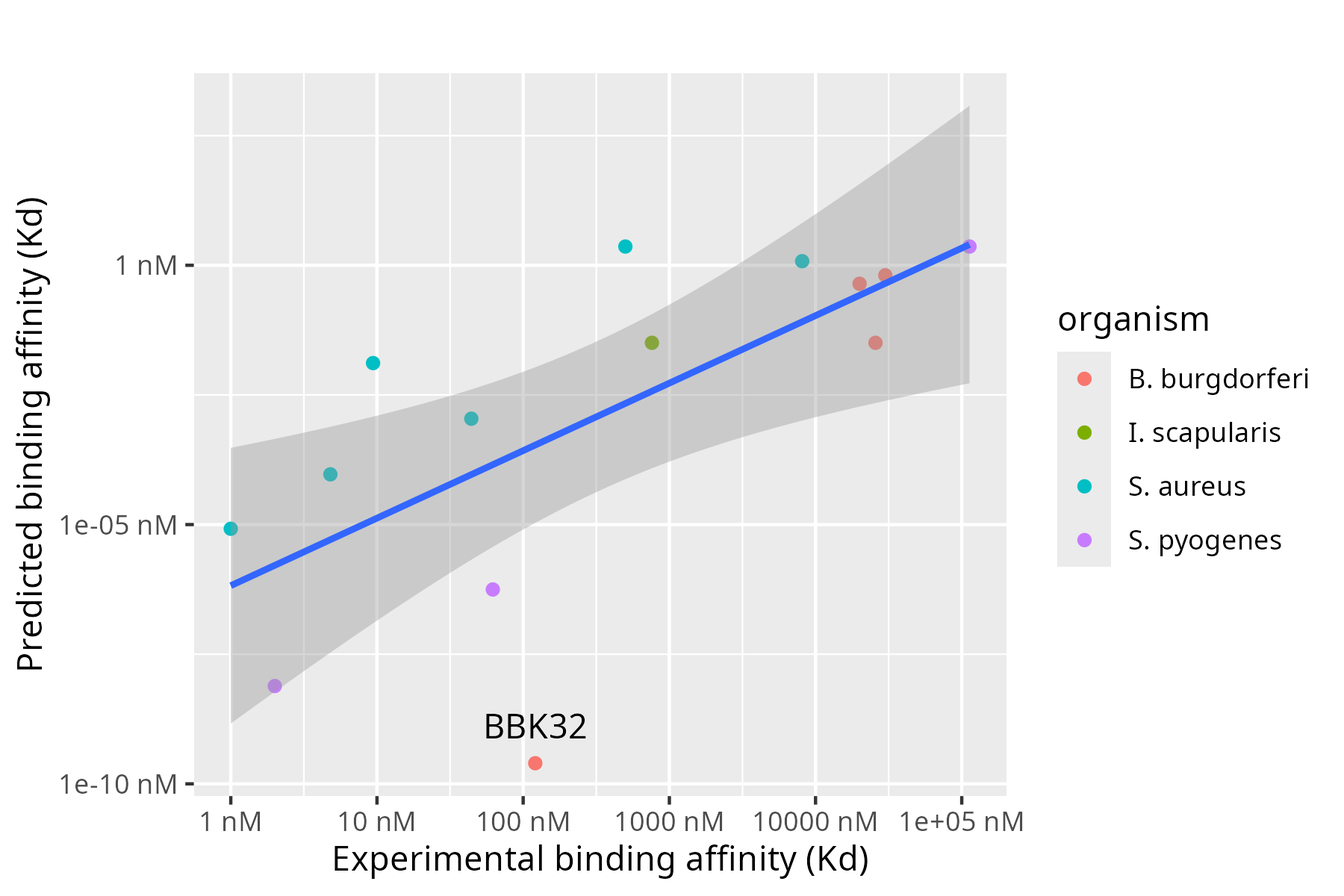
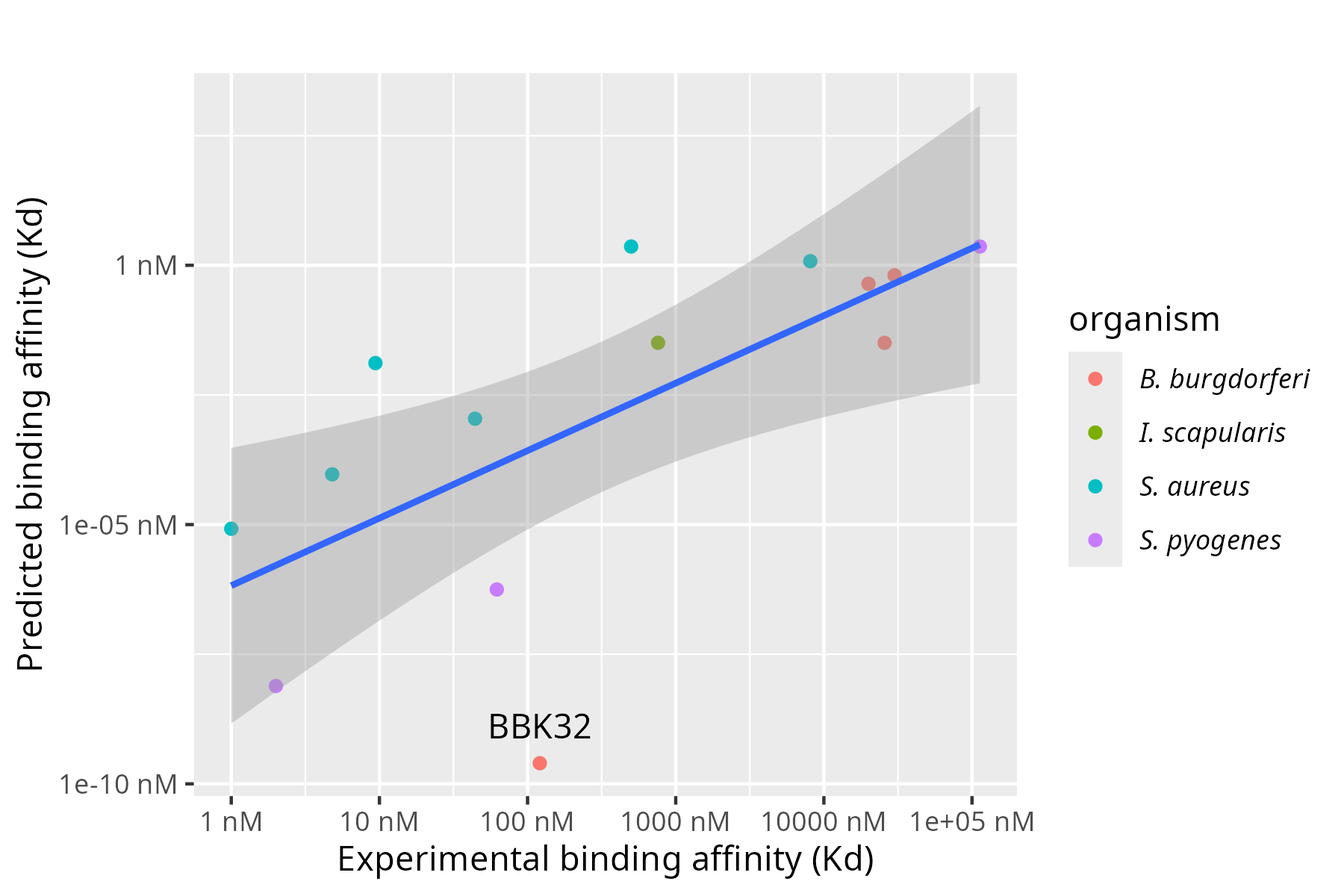
Force update docs on 2025-11-19 17:43:00

diff --git a/docs/data/generate_graph.html b/docs/data/generate_graph.html
@@ -7,7 +7,7 @@
 <meta name="viewport" content="width=device-width, initial-scale=1.0, user-scalable=yes">
 
 
-<title>Research – RJBingham</title>
+<title>graph – RJBingham</title>
 <style>
 code{white-space: pre-wrap;}
 span.smallcaps{font-variant: small-caps;}
@@ -20,26 +20,61 @@ ul.task-list li input[type="checkbox"] {
   margin: 0 0.8em 0.2em -1em; /* quarto-specific, see https://github.com/quarto-dev/quarto-cli/issues/4556 */ 
   vertical-align: middle;
 }
+/* CSS for syntax highlighting */
+html { -webkit-text-size-adjust: 100%; }
+pre > code.sourceCode { white-space: pre; position: relative; }
+pre > code.sourceCode > span { display: inline-block; line-height: 1.25; }
+pre > code.sourceCode > span:empty { height: 1.2em; }
+.sourceCode { overflow: visible; }
+code.sourceCode > span { color: inherit; text-decoration: inherit; }
+div.sourceCode { margin: 1em 0; }
+pre.sourceCode { margin: 0; }
+@media screen {
+div.sourceCode { overflow: auto; }
+}
+@media print {
+pre > code.sourceCode { white-space: pre-wrap; }
+pre > code.sourceCode > span { text-indent: -5em; padding-left: 5em; }
+}
+pre.numberSource code
+  { counter-reset: source-line 0; }
+pre.numberSource code > span
+  { position: relative; left: -4em; counter-increment: source-line; }
+pre.numberSource code > span > a:first-child::before
+  { content: counter(source-line);
+    position: relative; left: -1em; text-align: right; vertical-align: baseline;
+    border: none; display: inline-block;
+    -webkit-touch-callout: none; -webkit-user-select: none;
+    -khtml-user-select: none; -moz-user-select: none;
+    -ms-user-select: none; user-select: none;
+    padding: 0 4px; width: 4em;
+  }
+pre.numberSource { margin-left: 3em;  padding-left: 4px; }
+div.sourceCode
+  {   }
+@media screen {
+pre > code.sourceCode > span > a:first-child::before { text-decoration: underline; }
+}
 </style>
 
 
-<script src="site_libs/quarto-nav/quarto-nav.js"></script>
-<script src="site_libs/quarto-nav/headroom.min.js"></script>
-<script src="site_libs/clipboard/clipboard.min.js"></script>
-<script src="site_libs/quarto-search/autocomplete.umd.js"></script>
-<script src="site_libs/quarto-search/fuse.min.js"></script>
-<script src="site_libs/quarto-search/quarto-search.js"></script>
-<meta name="quarto:offset" content="./">
-<script src="site_libs/quarto-html/quarto.js" type="module"></script>
-<script src="site_libs/quarto-html/tabsets/tabsets.js" type="module"></script>
-<script src="site_libs/quarto-html/popper.min.js"></script>
-<script src="site_libs/quarto-html/tippy.umd.min.js"></script>
-<script src="site_libs/quarto-html/anchor.min.js"></script>
-<link href="site_libs/quarto-html/tippy.css" rel="stylesheet">
-<link href="site_libs/quarto-html/quarto-syntax-highlighting-37eea08aefeeee20ff55810ff984fec1.css" rel="stylesheet" id="quarto-text-highlighting-styles">
-<script src="site_libs/bootstrap/bootstrap.min.js"></script>
-<link href="site_libs/bootstrap/bootstrap-icons.css" rel="stylesheet">
-<link href="site_libs/bootstrap/bootstrap-7baaf987bdc31585216d969921a59bec.min.css" rel="stylesheet" append-hash="true" id="quarto-bootstrap" data-mode="light">
+<script src="../site_libs/quarto-nav/quarto-nav.js"></script>
+<script src="../site_libs/quarto-nav/headroom.min.js"></script>
+<script src="../site_libs/clipboard/clipboard.min.js"></script>
+<script src="../site_libs/quarto-search/autocomplete.umd.js"></script>
+<script src="../site_libs/quarto-search/fuse.min.js"></script>
+<script src="../site_libs/quarto-search/quarto-search.js"></script>
+<meta name="quarto:offset" content="../">
+<script src="../site_libs/quarto-html/quarto.js" type="module"></script>
+<script src="../site_libs/quarto-html/tabsets/tabsets.js" type="module"></script>
+<script src="../site_libs/quarto-html/popper.min.js"></script>
+<script src="../site_libs/quarto-html/tippy.umd.min.js"></script>
+<script src="../site_libs/quarto-html/anchor.min.js"></script>
+<link href="../site_libs/quarto-html/tippy.css" rel="stylesheet">
+<link href="../site_libs/quarto-html/quarto-syntax-highlighting-37eea08aefeeee20ff55810ff984fec1.css" rel="stylesheet" id="quarto-text-highlighting-styles">
+<script src="../site_libs/bootstrap/bootstrap.min.js"></script>
+<link href="../site_libs/bootstrap/bootstrap-icons.css" rel="stylesheet">
+<link href="../site_libs/bootstrap/bootstrap-7baaf987bdc31585216d969921a59bec.min.css" rel="stylesheet" append-hash="true" id="quarto-bootstrap" data-mode="light">
 <script id="quarto-search-options" type="application/json">{
   "location": "navbar",
   "copy-button": false,
@@ -69,7 +104,7 @@ ul.task-list li input[type="checkbox"] {
 }</script>
 
 
-<link rel="stylesheet" href="styles.css">
+<link rel="stylesheet" href="../styles.css">
 </head>
 
 <body class="nav-fixed quarto-light">
@@ -79,7 +114,7 @@ ul.task-list li input[type="checkbox"] {
     <nav class="navbar navbar-expand-lg " data-bs-theme="dark">
       <div class="navbar-container container-fluid">
       <div class="navbar-brand-container mx-auto">
-    <a class="navbar-brand" href="./index.html">
+    <a class="navbar-brand" href="../index.html">
     <span class="navbar-title">RJBingham</span>
     </a>
   </div>
@@ -90,16 +125,12 @@ ul.task-list li input[type="checkbox"] {
           <div class="collapse navbar-collapse" id="navbarCollapse">
             <ul class="navbar-nav navbar-nav-scroll me-auto">
   <li class="nav-item">
-    <a class="nav-link" href="./index.html"> 
+    <a class="nav-link" href="../index.html"> 
 <span class="menu-text">Home</span></a>
   </li>  
   <li class="nav-item">
-    <a class="nav-link active" href="./research.html" aria-current="page"> 
+    <a class="nav-link" href="../research.html"> 
 <span class="menu-text">Research</span></a>
-  </li>  
-  <li class="nav-item">
-    <a class="nav-link" href="./teaching.html"> 
-<span class="menu-text">Teaching</span></a>
   </li>  
 </ul>
           </div> <!-- /navcollapse -->
@@ -117,8 +148,8 @@ ul.task-list li input[type="checkbox"] {
     <h2 id="toc-title">On this page</h2>
    
   <ul>
-  <li><a href="#current-projects-and-tutorials" id="toc-current-projects-and-tutorials" class="nav-link active" data-scroll-target="#current-projects-and-tutorials">Current Projects and Tutorials</a></li>
-  <li><a href="#publications" id="toc-publications" class="nav-link" data-scroll-target="#publications">Publications</a></li>
+  <li><a href="#load-the-data" id="toc-load-the-data" class="nav-link active" data-scroll-target="#load-the-data">Load the data</a></li>
+  <li><a href="#draw-the-graph" id="toc-draw-the-graph" class="nav-link" data-scroll-target="#draw-the-graph">Draw the graph</a></li>
   </ul>
 </nav>
     </div>
@@ -127,7 +158,7 @@ ul.task-list li input[type="checkbox"] {
 
 <header id="title-block-header" class="quarto-title-block default">
 <div class="quarto-title">
-<h1 class="title">Research</h1>
+<h1 class="title">graph</h1>
 </div>
 
 
@@ -144,25 +175,68 @@ ul.task-list li input[type="checkbox"] {
 </header>
 
 
-<p>I first developed an interest in structural molecular biology during my undergraduate degree at the University of Sheffield. To pursue this interest, I studied for a PhD in X-ray crystallography at the Astbury Centre for Structural Molecular Biology, University of Leeds under the supervision of Prof.&nbsp;Simon Phillips. I then worked as a postdoctoral research fellow under the supervision of Prof.&nbsp;Steve Homans and Prof.&nbsp;Steve Baldwin. By studying how a range of small molecules bind to the hydrophobic pocket of a small protein, we were able to demonstrate that non-polar protein-ligand interactions can be enthalpy driven with a significant contribution from London dispersion forces.</p>
-<p>In 2006, I started a postdoctoral position at the University of York work under the supervision of Prof.&nbsp;Jennifer Potts investigating fibronectin-binding proteins from pathogenic bacteria, elucidating mechanisms of the tandem beta-zipper interaction.</p>
-<p>I joined the Department of Biological Sciences at the University of Huddersfield in September 2008.</p>
-<section id="current-projects-and-tutorials" class="level2">
-<h2 class="anchored" data-anchor-id="current-projects-and-tutorials">Current Projects and Tutorials</h2>
-<p>Since 2008, I have had the pleasure of supervising numerous undergraduate and postgraduate student projects. I have a range of current projects in protein science, mainly focused on using computational techniques to aid our understanding of experimental results.</p>
-<ul>
-<li><a href="./tandem_beta_prodigy.html">Tutorial to estimate the binding affinity of a tandem beta-zipper using PRODIGY</a></li>
-<li><a href="./umbrella_sampling_tutorial.html">Umbrella Sampling</a></li>
-</ul>
+<section id="load-the-data" class="level2">
+<h2 class="anchored" data-anchor-id="load-the-data">Load the data</h2>
+<div class="cell">
+<div class="sourceCode cell-code" id="cb1"><pre class="sourceCode r code-with-copy"><code class="sourceCode r"><span id="cb1-1"><a href="#cb1-1" aria-hidden="true" tabindex="-1"></a><span class="fu">library</span>(tidyverse)</span></code><button title="Copy to Clipboard" class="code-copy-button"><i class="bi"></i></button></pre></div>
+<div class="cell-output cell-output-stderr">
+<pre><code>── Attaching core tidyverse packages ──────────────────────── tidyverse 2.0.0 ──
+✔ dplyr     1.1.4     ✔ readr     2.1.5
+✔ forcats   1.0.1     ✔ stringr   1.5.2
+✔ ggplot2   4.0.0     ✔ tibble    3.3.0
+✔ lubridate 1.9.4     ✔ tidyr     1.3.1
+✔ purrr     1.1.0     
+── Conflicts ────────────────────────────────────────── tidyverse_conflicts() ──
+✖ dplyr::filter() masks stats::filter()
+✖ dplyr::lag()    masks stats::lag()
+ℹ Use the conflicted package (&lt;http://conflicted.r-lib.org/&gt;) to force all conflicts to become errors</code></pre>
+</div>
+<div class="sourceCode cell-code" id="cb3"><pre class="sourceCode r code-with-copy"><code class="sourceCode r"><span id="cb3-1"><a href="#cb3-1" aria-hidden="true" tabindex="-1"></a><span class="fu">library</span>(janitor)</span></code><button title="Copy to Clipboard" class="code-copy-button"><i class="bi"></i></button></pre></div>
+<div class="cell-output cell-output-stderr">
+<pre><code>
+Attaching package: 'janitor'
+
+The following objects are masked from 'package:stats':
+
+    chisq.test, fisher.test</code></pre>
+</div>
+<div class="sourceCode cell-code" id="cb5"><pre class="sourceCode r code-with-copy"><code class="sourceCode r"><span id="cb5-1"><a href="#cb5-1" aria-hidden="true" tabindex="-1"></a><span class="fu">library</span>(readxl)</span>
+<span id="cb5-2"><a href="#cb5-2" aria-hidden="true" tabindex="-1"></a>df <span class="ot">&lt;-</span> <span class="fu">read_xlsx</span>(<span class="st">"Fibronectin Binding proteins updated with plot.xlsx"</span>) <span class="sc">|&gt;</span> </span>
+<span id="cb5-3"><a href="#cb5-3" aria-hidden="true" tabindex="-1"></a>  <span class="fu">clean_names</span>()</span></code><button title="Copy to Clipboard" class="code-copy-button"><i class="bi"></i></button></pre></div>
+</div>
 </section>
-<section id="publications" class="level2">
-<h2 class="anchored" data-anchor-id="publications">Publications</h2>
-<p>Click <a href="./all_publications.html">here to see a list of all my publications</a> or click on one of the images below. <!-- Generates a row of four images --> <!-- could also include "enzymes" --></p>
-<div style="display: flex; justify-content: space-between; gap: 1rem; flex-wrap: wrap;">
-<p><a href="./protein_science_publications.html" title="protein illustration"> <img src="images/proteins.png" style="width: 23%;"> </a></p>
-<p><a href="./pathogen_publications.html" title="Image of S. aureus and a virus"> <img src="images/pathogens.png" style="width: 23%;"> </a></p>
-<p><a href="./pectin_publications.html" title="illustration of carbohydrate"> <img src="images/pectin.png" style="width: 23%;"> </a></p>
-<p><a href="./thermodynamics_publications.html" title="Thermodynamics"> <img src="images/thermodynamics.png" style="width: 23%;"> </a></p>
+<section id="draw-the-graph" class="level2">
+<h2 class="anchored" data-anchor-id="draw-the-graph">Draw the graph</h2>
+<div class="cell">
+<div class="sourceCode cell-code" id="cb6"><pre class="sourceCode r code-with-copy"><code class="sourceCode r"><span id="cb6-1"><a href="#cb6-1" aria-hidden="true" tabindex="-1"></a>df <span class="sc">|&gt;</span> <span class="fu">ggplot</span>()<span class="sc">+</span><span class="fu">aes</span>(<span class="at">x=</span>log_of_experimental_binding_affinity,<span class="at">y=</span>log_of_prodigy_kd_n_m)<span class="sc">+</span></span>
+<span id="cb6-2"><a href="#cb6-2" aria-hidden="true" tabindex="-1"></a>  <span class="fu">geom_point</span> (<span class="fu">aes</span>(<span class="at">colour =</span> organism))<span class="sc">+</span></span>
+<span id="cb6-3"><a href="#cb6-3" aria-hidden="true" tabindex="-1"></a>  <span class="fu">geom_smooth</span>(<span class="at">method=</span> <span class="st">"lm"</span>)<span class="sc">+</span></span>
+<span id="cb6-4"><a href="#cb6-4" aria-hidden="true" tabindex="-1"></a>  <span class="fu">scale_x_continuous</span>(</span>
+<span id="cb6-5"><a href="#cb6-5" aria-hidden="true" tabindex="-1"></a>  <span class="at">labels =</span> <span class="cf">function</span>(x) <span class="fu">paste0</span>(<span class="dv">10</span><span class="sc">^</span>x, <span class="st">" nM"</span>))<span class="sc">+</span></span>
+<span id="cb6-6"><a href="#cb6-6" aria-hidden="true" tabindex="-1"></a>  <span class="fu">xlab</span>(<span class="st">"Experimental binding affinity (Kd)"</span>)<span class="sc">+</span></span>
+<span id="cb6-7"><a href="#cb6-7" aria-hidden="true" tabindex="-1"></a>  <span class="fu">scale_y_continuous</span>(</span>
+<span id="cb6-8"><a href="#cb6-8" aria-hidden="true" tabindex="-1"></a>  <span class="at">labels =</span> <span class="cf">function</span>(x) <span class="fu">paste0</span>(<span class="dv">10</span><span class="sc">^</span>x, <span class="st">" nM"</span>))<span class="sc">+</span></span>
+<span id="cb6-9"><a href="#cb6-9" aria-hidden="true" tabindex="-1"></a>  <span class="fu">ylab</span>(<span class="st">"Predicted binding affinity (Kd)"</span>)<span class="sc">+</span></span>
+<span id="cb6-10"><a href="#cb6-10" aria-hidden="true" tabindex="-1"></a>  <span class="fu">ggtitle</span>(<span class="st">""</span>) <span class="sc">+</span></span>
+<span id="cb6-11"><a href="#cb6-11" aria-hidden="true" tabindex="-1"></a>    <span class="fu">geom_text</span>(<span class="at">data =</span> df <span class="sc">|&gt;</span> <span class="fu">filter</span>(name_of_bacterial_peptide <span class="sc">==</span> <span class="st">"BBK32"</span>),</span>
+<span id="cb6-12"><a href="#cb6-12" aria-hidden="true" tabindex="-1"></a>            <span class="fu">aes</span>(<span class="at">label =</span> name_of_bacterial_peptide), </span>
+<span id="cb6-13"><a href="#cb6-13" aria-hidden="true" tabindex="-1"></a>            <span class="at">vjust =</span> <span class="sc">-</span><span class="dv">1</span>, </span>
+<span id="cb6-14"><a href="#cb6-14" aria-hidden="true" tabindex="-1"></a>            <span class="at">colour =</span> <span class="st">"black"</span>) <span class="sc">+</span></span>
+<span id="cb6-15"><a href="#cb6-15" aria-hidden="true" tabindex="-1"></a>  <span class="fu">theme</span>(<span class="at">legend.text =</span> <span class="fu">element_text</span>(<span class="at">face =</span> <span class="st">"italic"</span>))</span></code><button title="Copy to Clipboard" class="code-copy-button"><i class="bi"></i></button></pre></div>
+<div class="cell-output cell-output-stderr">
+<pre><code>`geom_smooth()` using formula = 'y ~ x'</code></pre>
+</div>
+<div class="cell-output-display">
+<div>
+<figure class="figure">
+<p><img src="generate_graph_files/figure-html/unnamed-chunk-2-1.png" class="img-fluid figure-img" width="672"></p>
+</figure>
+</div>
+</div>
+<div class="sourceCode cell-code" id="cb8"><pre class="sourceCode r code-with-copy"><code class="sourceCode r"><span id="cb8-1"><a href="#cb8-1" aria-hidden="true" tabindex="-1"></a><span class="fu">ggsave</span>(<span class="st">"graph.png"</span>, <span class="at">width =</span> <span class="dv">6</span>, <span class="at">height =</span> <span class="dv">4</span>, <span class="at">dpi =</span> <span class="dv">300</span>)</span></code><button title="Copy to Clipboard" class="code-copy-button"><i class="bi"></i></button></pre></div>
+<div class="cell-output cell-output-stderr">
+<pre><code>`geom_smooth()` using formula = 'y ~ x'</code></pre>
+</div>
 </div>
 
 

diff --git a/docs/teaching.html b/docs/teaching.html
@@ -7,7 +7,7 @@
 <meta name="viewport" content="width=device-width, initial-scale=1.0, user-scalable=yes">
 
 
-<title>Research – RJBingham</title>
+<title>Teaching – RJBingham</title>
 <style>
 code{white-space: pre-wrap;}
 span.smallcaps{font-variant: small-caps;}
@@ -94,11 +94,11 @@ ul.task-list li input[type="checkbox"] {
 <span class="menu-text">Home</span></a>
   </li>  
   <li class="nav-item">
-    <a class="nav-link active" href="./research.html" aria-current="page"> 
+    <a class="nav-link" href="./research.html"> 
 <span class="menu-text">Research</span></a>
   </li>  
   <li class="nav-item">
-    <a class="nav-link" href="./teaching.html"> 
+    <a class="nav-link active" href="./teaching.html" aria-current="page"> 
 <span class="menu-text">Teaching</span></a>
   </li>  
 </ul>
@@ -117,8 +117,7 @@ ul.task-list li input[type="checkbox"] {
     <h2 id="toc-title">On this page</h2>
    
   <ul>
-  <li><a href="#current-projects-and-tutorials" id="toc-current-projects-and-tutorials" class="nav-link active" data-scroll-target="#current-projects-and-tutorials">Current Projects and Tutorials</a></li>
-  <li><a href="#publications" id="toc-publications" class="nav-link" data-scroll-target="#publications">Publications</a></li>
+  <li><a href="#problem-solving" id="toc-problem-solving" class="nav-link active" data-scroll-target="#problem-solving">Problem Solving</a></li>
   </ul>
 </nav>
     </div>
@@ -127,7 +126,7 @@ ul.task-list li input[type="checkbox"] {
 
 <header id="title-block-header" class="quarto-title-block default">
 <div class="quarto-title">
-<h1 class="title">Research</h1>
+<h1 class="title">Teaching</h1>
 </div>
 
 
@@ -144,25 +143,14 @@ ul.task-list li input[type="checkbox"] {
 </header>
 
 
-<p>I first developed an interest in structural molecular biology during my undergraduate degree at the University of Sheffield. To pursue this interest, I studied for a PhD in X-ray crystallography at the Astbury Centre for Structural Molecular Biology, University of Leeds under the supervision of Prof.&nbsp;Simon Phillips. I then worked as a postdoctoral research fellow under the supervision of Prof.&nbsp;Steve Homans and Prof.&nbsp;Steve Baldwin. By studying how a range of small molecules bind to the hydrophobic pocket of a small protein, we were able to demonstrate that non-polar protein-ligand interactions can be enthalpy driven with a significant contribution from London dispersion forces.</p>
-<p>In 2006, I started a postdoctoral position at the University of York work under the supervision of Prof.&nbsp;Jennifer Potts investigating fibronectin-binding proteins from pathogenic bacteria, elucidating mechanisms of the tandem beta-zipper interaction.</p>
-<p>I joined the Department of Biological Sciences at the University of Huddersfield in September 2008.</p>
-<section id="current-projects-and-tutorials" class="level2">
-<h2 class="anchored" data-anchor-id="current-projects-and-tutorials">Current Projects and Tutorials</h2>
-<p>Since 2008, I have had the pleasure of supervising numerous undergraduate and postgraduate student projects. I have a range of current projects in protein science, mainly focused on using computational techniques to aid our understanding of experimental results.</p>
-<ul>
-<li><a href="./tandem_beta_prodigy.html">Tutorial to estimate the binding affinity of a tandem beta-zipper using PRODIGY</a></li>
-<li><a href="./umbrella_sampling_tutorial.html">Umbrella Sampling</a></li>
-</ul>
-</section>
-<section id="publications" class="level2">
-<h2 class="anchored" data-anchor-id="publications">Publications</h2>
-<p>Click <a href="./all_publications.html">here to see a list of all my publications</a> or click on one of the images below. <!-- Generates a row of four images --> <!-- could also include "enzymes" --></p>
-<div style="display: flex; justify-content: space-between; gap: 1rem; flex-wrap: wrap;">
-<p><a href="./protein_science_publications.html" title="protein illustration"> <img src="images/proteins.png" style="width: 23%;"> </a></p>
-<p><a href="./pathogen_publications.html" title="Image of S. aureus and a virus"> <img src="images/pathogens.png" style="width: 23%;"> </a></p>
-<p><a href="./pectin_publications.html" title="illustration of carbohydrate"> <img src="images/pectin.png" style="width: 23%;"> </a></p>
-<p><a href="./thermodynamics_publications.html" title="Thermodynamics"> <img src="images/thermodynamics.png" style="width: 23%;"> </a></p>
+<section id="problem-solving" class="level2">
+<h2 class="anchored" data-anchor-id="problem-solving">Problem Solving</h2>
+<p>Each year, I incorporate a thought experiment into the first-year induction programme where students design an experiment to detect life in water from Europa.</p>
+<div class="quarto-figure quarto-figure-left">
+<figure class="figure">
+<p><img src="images/giving_a_lecture.png" class="img-fluid figure-img" style="width:80.0%"></p>
+<figcaption>Me giving a lecture on astrobiology (photo by Yun Wah Lam)</figcaption>
+</figure>
 </div>
 
 

diff --git a/docs/tandem_beta_prodigy.html b/docs/tandem_beta_prodigy.html
@@ -97,6 +97,10 @@ ul.task-list li input[type="checkbox"] {
     <a class="nav-link" href="./research.html"> 
 <span class="menu-text">Research</span></a>
   </li>  
+  <li class="nav-item">
+    <a class="nav-link" href="./teaching.html"> 
+<span class="menu-text">Teaching</span></a>
+  </li>  
 </ul>
           </div> <!-- /navcollapse -->
             <div class="quarto-navbar-tools">
@@ -113,8 +117,7 @@ ul.task-list li input[type="checkbox"] {
     <h2 id="toc-title">On this page</h2>
    
   <ul>
-  <li><a href="#introduction-to-coordinate-files" id="toc-introduction-to-coordinate-files" class="nav-link active" data-scroll-target="#introduction-to-coordinate-files">Introduction to coordinate files</a></li>
-  <li><a href="#extracting-the-amino-acid-sequences" id="toc-extracting-the-amino-acid-sequences" class="nav-link" data-scroll-target="#extracting-the-amino-acid-sequences">Extracting the amino acid sequences</a>
+  <li><a href="#extracting-the-amino-acid-sequences" id="toc-extracting-the-amino-acid-sequences" class="nav-link active" data-scroll-target="#extracting-the-amino-acid-sequences">Extracting the amino acid sequences</a>
   <ul class="collapse">
   <li><a href="#staphylococcus-aureus-fibronectin-binding-protein-a-repeat-1-fnbpa-1" id="toc-staphylococcus-aureus-fibronectin-binding-protein-a-repeat-1-fnbpa-1" class="nav-link" data-scroll-target="#staphylococcus-aureus-fibronectin-binding-protein-a-repeat-1-fnbpa-1"><em>Staphylococcus aureus</em> Fibronectin-binding Protein A Repeat 1 (FnBPA-1)</a></li>
   <li><a href="#streptococcal-fibronectin-binding-protein-i-sfbi" id="toc-streptococcal-fibronectin-binding-protein-i-sfbi" class="nav-link" data-scroll-target="#streptococcal-fibronectin-binding-protein-i-sfbi">Streptococcal fibronectin-binding protein I (SfbI)</a></li>
@@ -159,9 +162,8 @@ blockquote pre {
   box-shadow: 0 2px 4px rgba(0,0,0,0.1);
 }
 </style>
-<p>This new guide is written for project students at undergraduate or MSc level. The page is under construction</p>
-<section id="introduction-to-coordinate-files" class="level2">
-<h2 class="anchored" data-anchor-id="introduction-to-coordinate-files">Introduction to coordinate files</h2>
+<p>This guide is written for project students at undergraduate or MSc level.</p>
+<p>The aim is to extract the amino acid sequences for the target proteins, build an Alphafold model of the complex, then submit this to PRODIGY to estimate the binding affinity. We start with an introduction to coordinate files. ## Introduction to coordinate files</p>
 <p>Several experimental structures (from NMR and X-ray crystallography) are available of bacterial peptides in complex with fibronectin. The structure files can be downloaded from the Protein Data Bank (PDB). For example, see the “Crystal structure of the second and third fibronectin F1 modules in complex with a fragment of <em>Streptococcus pyogenes</em> SfbI-5”, PDB accession code <a href="https://www.rcsb.org/structure/3ZRZ">3ZRZ</a>. Click on Download Files, then choose either the PDBx/mmCIF Format, or the Legacy PDB Format.</p>
 <div class="quarto-figure quarto-figure-left">
 <figure class="figure">
@@ -207,7 +209,6 @@ Quick Tip
 </ul>
 <p>To calculate an accurate binding affinity between two molecules, we need accurate coordinate files that include all the amino acids. These missing (or extra) parts will need to be corrected.</p>
 <p>One option would be to edit the text file to remove these non-protein atoms, then rebuild and model the missing loops and side-chains. However, in 2021, Alphafold2 was released, which, for the first time made it possible to accurately predict the 3D-structure of a protein based only on the amino acid sequence <a href="https://www.nature.com/articles/s41586-021-03819-2">(Jumper et al., 2021)</a>. The accuracy of these protein models has been shown to be excellent, especially where there is a prior structure in the PDB with high sequence identity to the target. Then, in 2024 Alphafold3 was released <a href="https://www.nature.com/articles/s41586-024-07487-w">(Abramson et al., 2024)</a> allowing the accurate prediction of complexes, for example the interaction between two distinct proteins. The Alphafold server is available <a href="https://alphafoldserver.com/welcome">here</a>. You will need a google account to use it. You will notice from this server that the input is simply an amino acid sequence in one-letter code.</p>
-</section>
 <section id="extracting-the-amino-acid-sequences" class="level2">
 <h2 class="anchored" data-anchor-id="extracting-the-amino-acid-sequences">Extracting the amino acid sequences</h2>
 <p>In order to generate Alphafold models, we need to extract the correct amino acid sequences of the target proteins. In the example, we will find the amino acid sequences that correspond to the interaction between two different bacterial peptides (SfbI and FnBPA1) and the 2nd and 3rd F1 domains of human fibronectin (2F1-5F1).</p>

diff --git a/docs/index.html b/docs/index.html
@@ -97,6 +97,10 @@ ul.task-list li input[type="checkbox"] {
     <a class="nav-link" href="./research.html"> 
 <span class="menu-text">Research</span></a>
   </li>  
+  <li class="nav-item">
+    <a class="nav-link" href="./teaching.html"> 
+<span class="menu-text">Teaching</span></a>
+  </li>  
 </ul>
           </div> <!-- /navcollapse -->
             <div class="quarto-navbar-tools">
@@ -115,7 +119,6 @@ ul.task-list li input[type="checkbox"] {
   <ul>
   <li><a href="#research" id="toc-research" class="nav-link active" data-scroll-target="#research">Research</a></li>
   <li><a href="#running-and-cycling" id="toc-running-and-cycling" class="nav-link" data-scroll-target="#running-and-cycling">Running and Cycling</a></li>
-  <li><a href="#astrobiology" id="toc-astrobiology" class="nav-link" data-scroll-target="#astrobiology">Astrobiology</a></li>
   <li><a href="#cooking" id="toc-cooking" class="nav-link" data-scroll-target="#cooking">Cooking</a></li>
   </ul>
 </nav>
@@ -145,28 +148,15 @@ ul.task-list li input[type="checkbox"] {
 <p>This site is under construction.</p>
 <section id="research" class="level2">
 <h2 class="anchored" data-anchor-id="research">Research</h2>
-<p>My <a href="./research.html">research</a> interests are described here.</p>
+<p>Much of my research has centred on bacterial and viral surface proteins, with a focus on the molecular mechanisms underlying pathogenicity and immune evasion. My current work applies molecular dynamics simulations, including umbrella sampling, to investigate protein–protein interactions that are central to the pathology of <em>Staphylococcus aureus</em> and <em>Borrelia burgdorferi</em>. I also pursue projects in viral protein science, exploring fundamental differences between viral and non-viral systems. More detail on my research interests are described <a href="./research.html">here</a>.</p>
 </section>
 <section id="running-and-cycling" class="level2">
 <h2 class="anchored" data-anchor-id="running-and-cycling">Running and Cycling</h2>
 <p>When I am not working, I can often be found running or mountain biking on the local trails. When I was younger, I did a lot of rock climbing. More recently, I have completed a number of <a href="https://itra.run/api/RunnerSpace/GetRunnerSpace?memberString=lREgn0GkuIezLIJSWftzbg%3D%3D">ultramarathons</a> (very slowly).</p>
 </section>
-<section id="astrobiology" class="level2">
-<h2 class="anchored" data-anchor-id="astrobiology">Astrobiology</h2>
-<p>I have an amateur interest in Astrobiology. Each year, I incorporate a thought experiment into the first-year induction programme where students design an experiment to detect life in water from Europa.</p>
-<div class="quarto-figure quarto-figure-left">
-<figure class="figure">
-<p><img src="images/giving_a_lecture.png" class="img-fluid figure-img" style="width:80.0%"></p>
-<figcaption>Me giving a lecture on astrobiology (photo by Yun Wah Lam)</figcaption>
-</figure>
-</div>
-</section>
 <section id="cooking" class="level2">
 <h2 class="anchored" data-anchor-id="cooking">Cooking</h2>
-<p>Here are some of my favourite recipes.</p>
-<ul>
-<li><a href="./pilau_rice.html">Pilau Rice</a></li>
-</ul>
+<p>I initially wrote these recipes to help me learn Quarto. Keeping them here helps me remember what to do… - <a href="./pilau_rice.html">Pilau Rice</a></p>
 
 
 </section>
